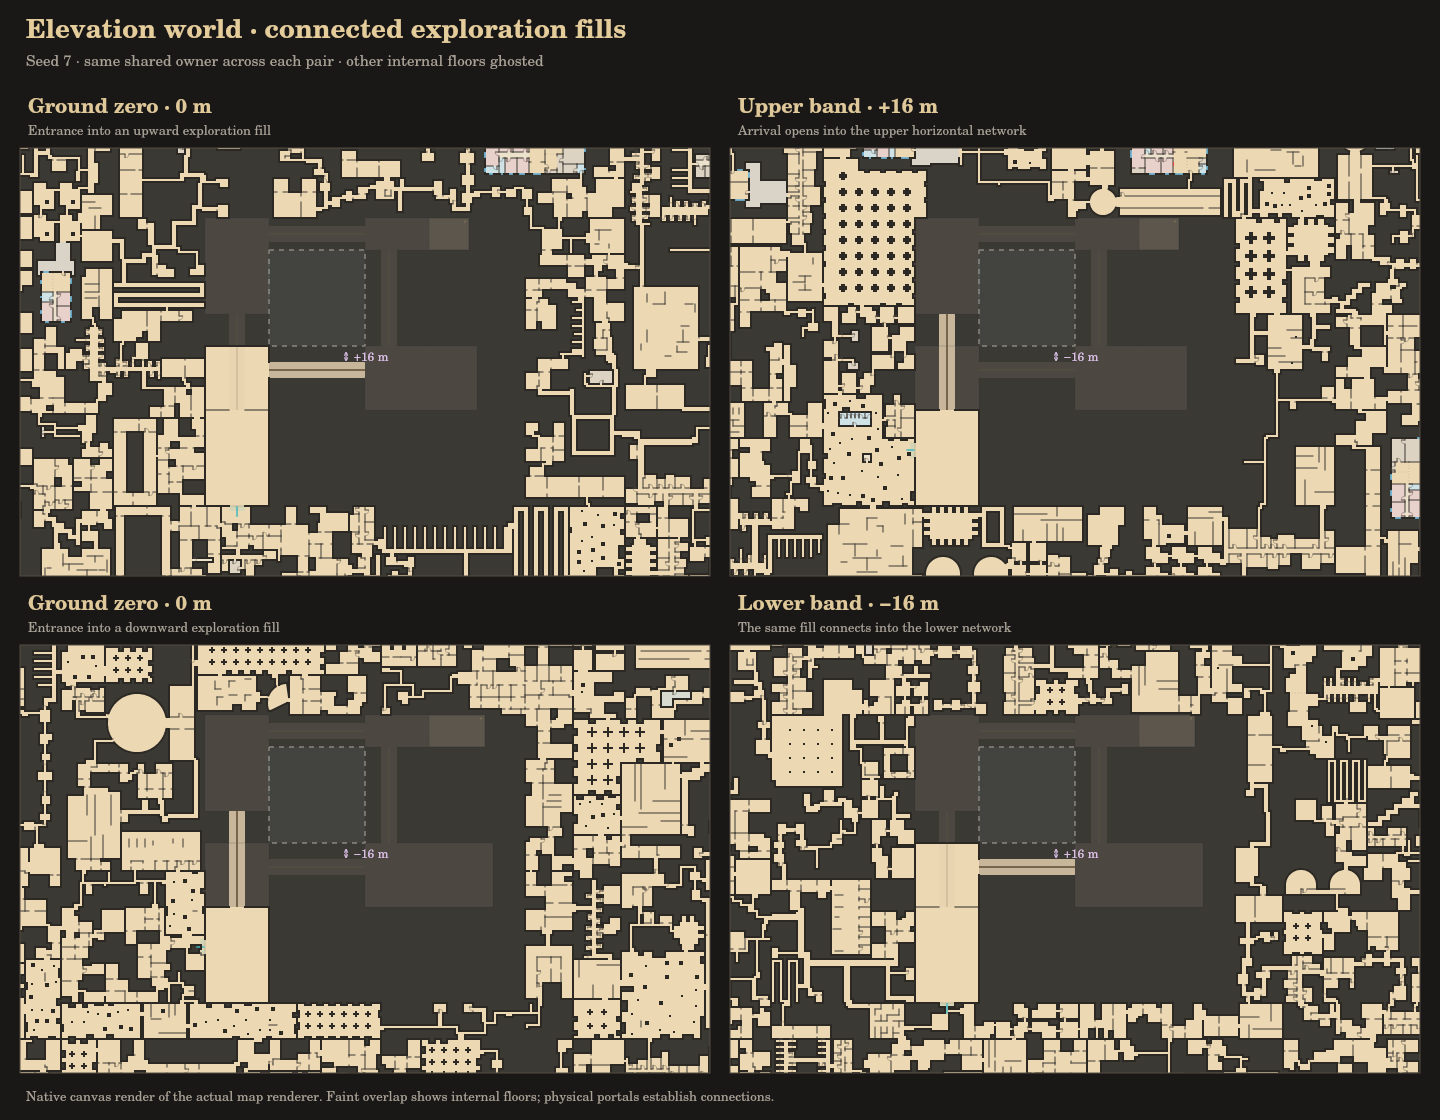
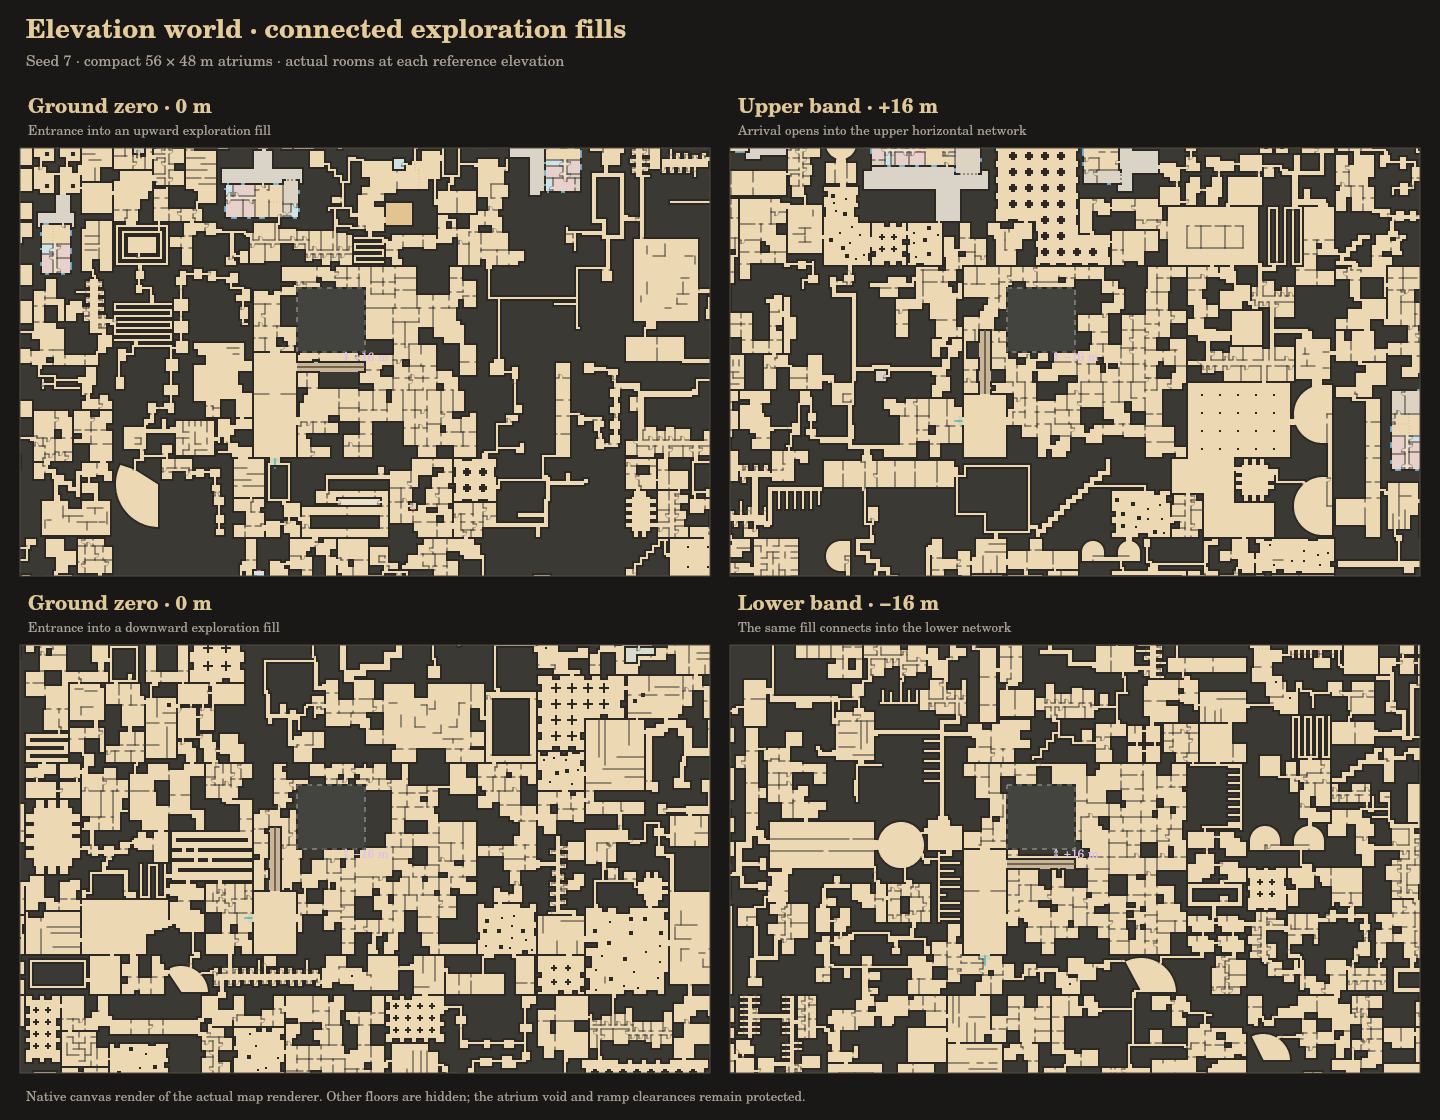
Compact and populate the terraced atrium world fill

diff --git a/src/tpl/elevation.js b/src/tpl/elevation.js
@@ -207,6 +207,52 @@
     return op;
   }
 
+  /** Populate the shared owner's spare space at a reference elevation. The
+   * existing filler pipeline supplies enclosed rooms and 1 m walkable joins;
+   * only volumes intersecting this floor's slab/headroom are excluded. */
+  function populateBand(b, band, seed, attachments) {
+    const z = b.bands.find((v) => v.id === band).elevation, ceiling = 2.4;
+    const mask = new TG.Raster(Math.round(b.site.w * 2), Math.round(b.site.h * 2), 1);
+    for (const v of b.volumes) if (v.z0 < z + ceiling - EPS && z - E.SLAB < v.z1 - EPS)
+      for (const q of v.rects) mask.fill(q.map((n) => Math.round(n * 2)), 0);
+    const rects = TG.rectsWhere(mask, (v) => v === 1).map((q) => q.map((n) => n / 2));
+    const bb = TG.bbox(rects), site = { rects }, prefix = 'infill:' + band + ':';
+    const connections = attachments.map((a, i) => {
+      const q = TG.bbox(b.rooms.find((r) => r.id === a.room).rects), horizontal = a.side === 'N' || a.side === 'S';
+      const line = a.side === 'N' ? q[1] : a.side === 'S' ? q[3] : a.side === 'W' ? q[0] : q[2];
+      return { id: String(i), side: TG.opposite(a.side), at: a.at - bb[horizontal ? 0 : 1],
+        line: line - bb[horizontal ? 1 : 0], width: a.width, kind: 'opening', route: true };
+    });
+    const f = BR.FILL.generate({ filler: 'warren', seed, site, connections });
+    if (f.error || f.meta.issues.length) throw new Error('terraced infill: ' + (f.error || f.meta.issues.join('; ')));
+    const id = (v) => v == null ? null : prefix + v;
+    const pt = (p) => { p[0] += bb[0]; p[1] += bb[1]; };
+    const rr = (q) => { q[0] += bb[0]; q[2] += bb[0]; q[1] += bb[1]; q[3] += bb[1]; };
+    for (const r of f.rooms) {
+      r.id = id(r.id); r.rects.forEach(rr); r.floorZ = z; r.ceiling = ceiling; r.ceilingZ = round(z + ceiling); r.band = band;
+      r.tags.push('vertical-infill'); b.rooms.push(r); b.graph.nodes.push(r.id);
+    }
+    for (const w of f.walls) {
+      w.id = id(w.id); w.rooms = w.rooms.map(id); pt(w.a); pt(w.b); w.floorZ = z; w.ceilingZ = round(z + ceiling); b.walls.push(w);
+    }
+    for (const o of f.openings) {
+      o.id = id(o.id); o.wall = id(o.wall); o.rooms = o.rooms.map(id); pt(o.a); pt(o.b); o.floorZ = z;
+      if (o.swingInto) o.swingInto = id(o.swingInto);
+      // Filler portals become internal doors to the authored core, never new
+      // world entrances. Their coincident core opening cuts both wall faces.
+      delete o.portal; b.openings.push(o);
+    }
+    b.columns = b.columns || [];
+    for (const c of f.columns) { c.id = id(c.id); c.room = id(c.room); rr(c.rect); c.floorZ = z; b.columns.push(c); }
+    for (const [a, c, kind, op] of f.graph.edges) if (a !== 'outside' && c !== 'outside') b.graph.edges.push([id(a), id(c), kind, id(op)]);
+    for (const p of f.portals) {
+      const a = attachments[Number(p.connection)], other = id(p.room);
+      const op = b.openings.find((o) => o.id === id(p.opening));
+      op.rooms = op.rooms.map((r) => r || a.room);
+      opening(b, a.room, a.side, a.at, a.width, other);
+    }
+  }
+
   /** A shared multi-band fill. Four ramps and intervening rooms wrap an atrium;
    * the last ramp passes above/below the ground gallery. A compact side pocket
    * in the upward example crosses the neighboring band's elevation WITHOUT a
@@ -272,9 +318,16 @@
     }
     const ramps = b.connectors.filter((c) => c.kind === 'ramp');
     b.route = [point([4, 36, 0]), point([4, 19, 0]), ...clone(ramps[0].path), point([23, 19, 2]), ...clone(ramps[1].path), point([23, 2, 4]), ...clone(ramps[2].path), point([4, 2, 6]), ...clone(ramps[3].path), point([4, 29, 8]), point([0, 29, 8])];
+    if (spec.infill) {
+      const east = (rid) => ({ room: rid, side: 'E', at: y(28), width: y(30) - y(28) });
+      populateBand(b, 'ground', BR.hash4(seed, 0xe1f1, 0, 0), [east('entry'), { room: 'gallery', side: 'N', at: x(3), width: x(5) - x(3) }]);
+      populateBand(b, dest, BR.hash4(seed, 0xe1f1, 1, 0), [east('arrival')]);
+      b.meta.program.push('connected reference-floor infill');
+    }
     if (rng.f() < 0.5) {
       const rp = (p) => { p[0] = round(W - p[0]); }, rr = (r) => { const a = r[0]; r[0] = round(W - r[2]); r[2] = round(W - a); };
       for (const r of b.rooms) r.rects.forEach(rr);
+      for (const c of b.columns || []) rr(c.rect);
       for (const w of b.walls.concat(b.openings)) { rp(w.a); rp(w.b); }
       for (const p of b.portals) if (p.side === 'W' || p.side === 'E') p.side = TG.opposite(p.side);
       for (const c of b.connectors) { c.path.forEach(rp); c.landings.forEach(rp); c.reservation.rects.forEach(rr); }

diff --git a/tests/atrium.test.js b/tests/atrium.test.js
@@ -1,0 +1,49 @@
+// World atriums must use their territory without losing physical walkability.
+const assert = require('node:assert/strict');
+const { BR } = require('./helpers');
+const { walk1m } = require('./walk');
+const E = BR.ELEV, cfg = BR.BAND_CFG;
+assert.equal(cfg.fillWidth, 56); assert.equal(cfg.fillDepth, 48);
+assert(cfg.fillWidth * cfg.fillDepth < 80 * 72 / 2, 'less than half the former claim');
+let minFloor = 1, minClaim = 1;
+for (let seed = 0; seed < 50; seed++) for (const direction of ['up', 'down']) {
+  const spec = { seed, direction, rise: cfg.spacing, site: { w: cfg.fillWidth, h: cfg.fillDepth }, infill: true };
+  const b = E.generate(spec), area = b.site.w * b.site.h;
+  assert.deepEqual(E.validate(b).errors, []);
+  assert.deepEqual(b, E.generate(spec), 'infill exports remain deterministic');
+  assert.equal(b.portals.length, 2, 'internal infill doors never become world portals');
+  assert.equal(b.connectors.filter((c) => c.kind === 'ramp').length, 4);
+  assert.equal(E.reachable(b, ['s:entry']).size, b.rooms.length);
+  assert.equal(E.reachable(b, ['s:arrival']).size, b.rooms.length);
+  for (const z of [0, direction === 'up' ? cfg.spacing : -cfg.spacing]) {
+    // Inspect real room/wall/opening geometry, independently of the graph.
+    const slice = (vs) => vs.filter((v) => v.floorZ === z).map((v) => ({ ...v, level: 0 }));
+    const floor = { site: b.site, rooms: slice(b.rooms), walls: slice(b.walls), openings: slice(b.openings),
+      portals: slice(b.portals), columns: slice(b.columns || []) };
+    const w = walk1m(floor);
+    assert.equal(w.unreached, 0, seed + ' ' + direction + ' ' + z + ': all floor reached by a 1 m walker');
+    assert.deepEqual(w.stuck, []); assert.equal(w.pieces, 1);
+    const coverage = floor.rooms.reduce((sum, r) => sum + r.area, 0) / area;
+    assert(coverage >= 0.55, 'each reference floor uses at least 55% of the claim');
+    minFloor = Math.min(minFloor, coverage);
+    assert(floor.rooms.some((r) => r.tags.includes('vertical-infill')));
+  }
+  // A room underneath another floor is legal; a room in the shaft/headroom
+  // is not. Both follow actual Z volumes, rather than blanket XY exclusion.
+  const infill = b.surfaces.filter((s) => s.room.startsWith('infill:'));
+  assert(infill.some((s) => b.surfaces.some((q) => !q.room.startsWith('infill:') && q.floorZ !== s.floorZ &&
+    s.rects.some((r) => q.rects.some((v) => BR.TG.roverlap(r, v))))));
+  for (const s of infill) {
+    const v = b.volumes.find((v) => v.id === 'volume:' + s.id);
+    for (const c of b.connectors) assert(!E.volumeOverlap(v, c.reservation));
+    for (const q of b.voids) assert(!E.volumeOverlap(v, q));
+    assert.equal(s.owner, b.fillId, 'all infill belongs to the same territory');
+  }
+  const used = new BR.TG.Raster(b.site.w * 2, b.site.h * 2, 0);
+  for (const v of b.volumes) for (const q of v.rects) used.fill(q.map((n) => n * 2), 1);
+  const coverage = used.count(1) / used.a.length;
+  assert(coverage >= 0.9, 'rooms, ramps and atrium account for at least 90% of claimed XY');
+  minClaim = Math.min(minClaim, coverage);
+}
+console.log('ok   100 compact populated atriums, both directions; physical walkability, clearances and shared ownership');
+console.log('ok   minimum reference floor coverage ' + (minFloor * 100).toFixed(1) + '%, combined claim use ' + (minClaim * 100).toFixed(1) + '%');

diff --git a/tests/band-world.test.js b/tests/band-world.test.js
@@ -70,7 +70,8 @@ for (const seed of [7, 99, 31337]) {
     assert.equal(components(g.nodes, g.edges).sizes.length, 1);
     const entrance = p.id + '/s:entry', arrival = p.id + '/s:arrival';
     assert(walk(g, entrance).has(arrival)); assert(walk(g, arrival).has(entrance));
-    assert.equal([...g.nodes].filter((v) => v.startsWith(p.id + '/')).length, 9, 'shared journey surfaces are emitted once');
+    assert.equal([...g.nodes].filter((v) => v.startsWith(p.id + '/')).length, w.transition(p).surfaces.length, 'shared journey surfaces are emitted once');
+    assert(w.transition(p).rooms.some((r) => r.tags.includes('vertical-infill')), 'world selects the populated atrium');
     assert(g.dangling.every((id) => /\|[vh]/.test(id)), 'only cell borders leave this region');
     const one = w.graph(p.i, p.j, p.i, p.j, [n]);
     assert(one.verticalFrontier.some((v) => v.owner === p.id && v.band === 'band:' + (n + 1)));
@@ -144,7 +145,7 @@ for (const fault of ['height', 'width', 'side', 'clearance', 'missing']) {
 }
 assert.throws(() => new BR.BandWorld(7, { band: 0.5 }), /integer/);
 assert.throws(() => new BR.BandWorld(7).exportRegion(0, 0, 8, 8, [0]), /64/);
-same(E.validate(E.generate({ seed: 7, direction: 'down', rise: 16, site: { w: 80, h: 72 } })).errors, []);
+same(E.validate(E.generate({ seed: 7, direction: 'down', rise: 16, site: { w: 56, h: 48 }, infill: true })).errors, []);
 assert.throws(() => E.generate({ rise: 16 }), /too steep/);
 console.log('ok   invalid portal matching, region sizes and slopes rejected; both-direction scaled fills remain physical');
 console.log('All band-world checks passed.');

diff --git a/src/band-world.js b/src/band-world.js
@@ -4,7 +4,7 @@
 (function (root) {
   'use strict';
   const BR = root.BR, E = BR.ELEV, C = BR.WORLD_CFG.cell;
-  const CFG = { spacing: 16, regionCells: 4, fillWidth: 80, fillDepth: 72, ceilingLimit: 15.5,
+  const CFG = { spacing: 16, regionCells: 4, fillWidth: 56, fillDepth: 48, ceilingLimit: 15.5,
     limits: { bands: 4, transitions: 64, claims: 256 } };
   const clone = (x) => JSON.parse(JSON.stringify(x));
   const bandId = (n) => 'band:' + n;
@@ -97,7 +97,7 @@
     }
     transition(p) {
       return BR.World.lru(this.transitions, p.id, this.limits.transitions, () => {
-        const b = E.generate({ seed: p.seed, rise: CFG.spacing, site: { w: CFG.fillWidth, h: CFG.fillDepth }, fillId: p.id });
+        const b = E.generate({ seed: p.seed, rise: CFG.spacing, site: { w: CFG.fillWidth, h: CFG.fillDepth }, fillId: p.id, infill: true });
         placeBlueprint(b, p.lower * CFG.spacing, p.lower, p.upper);
         const result = E.validate(b);
         if (result.errors.length) throw new Error(p.id + ': ' + result.errors.join('; '));

diff --git a/tests/run-all.js b/tests/run-all.js
@@ -13,6 +13,7 @@ run('park.test.js', [], 'park (a hall tiled by zones)');
 run('fillers.test.js', [], 'fillers');
 run('architectural.test.js', [], 'architectural curves (constant radii and radial layouts)');
 run('elevation.test.js', [], 'elevation (surfaces, vertical fills, capabilities and reservations)');
+run('atrium.test.js', [], 'compact world atriums (territory use and physical infill)');
 run('elevation-ui.test.js', [], 'elevation lab controller');
 run('band-world.test.js', [], 'elevation world (ownership, matching, topology and eviction)');
 run('band-render.test.js', [], 'elevation map tiles and floor slices');

diff --git a/docs/elevation-world.md b/docs/elevation-world.md
@@ -40,7 +40,7 @@ ground zero retains the original seed. The flat generator remains available.
 | --- | --- | --- |
 | Reference spacing | 16 m | Accommodates existing tall street/neighborhood halls and slabs |
 | Journey region | 4 × 4 cells, 512 × 512 m | One journey per region per adjacent pair |
-| Shared fill territory | 80 × 72 m | Four 4 m rises with ramps no steeper than 1:4 |
+| Shared fill territory | 56 × 48 m | Four 4 m rises with ramps no steeper than 1:4 |
 | Ordinary envelope | Reference −0.25 m to +15.5 m | Conservative room/slab reservation |
 | Shared envelope | Lower reference −0.25 m to upper reference +3 m | Protects rooms, ramps, stacked pocket and atrium |
 
@@ -68,6 +68,26 @@ portal is on a different XY edge and Z, reached through the rooms and ramps.
 At +14 m the stacked pocket still belongs to the lower home band; its ceiling
 occupies +16 m space, but it has no upper network portal. Only the authored
 arrival at +16 m supplies that connection. Occupancy never implies connectivity.
+
+### Compact populated atrium
+
+The world variant now claims **2,688 m² instead of 5,760 m²**, a 53.3% reduction.
+Both reference floors contain connected enclosed room networks around the
+authored vertical journey. These use the existing `warren` filler pipeline,
+with 2.4 m clear ceilings and real internal openings into the entrance/gallery
+and arrival. The four ramps, intermediate rooms, stacked pocket and atrium
+remain part of the same shared owner, with exactly two external band portals.
+
+Infill excludes the existing room/slab, ramp headroom and void volumes that
+intersect its floor height. It can fit underneath an elevated gallery when
+there is enough clearance. It cannot occupy the atrium or a ramp's reserved
+space. Neighboring territories still stay outside the full shared envelope;
+this change fills out the template itself. Some solid mass between rooms is
+intentional, as with ordinary enclosed fills.
+
+The preview above hides other floors to show the usable reference-floor plans.
+The standalone M1 lab fixture retains its minimal authored geometry; the world
+requests the populated form through `ELEV.generate({ ..., infill: true })`.
 
 ## Ownership, reservations and caches
 
@@ -143,10 +163,15 @@ fills exclude accidental seam cuts.
 
 - 6,000 journey placements across 100 seeds: deterministic ownership, negative
   regions, adjacent-pair separation and both bands' border clearance.
-- 60 complete journeys across three seeds: 34,724 reachable rooms, destination
+- 100 compact populated atriums in both directions: real 1 m walker access
+  through the rooms and doors on both reference floors, exact headroom/void
+  exclusion, deterministic exports, and a single shared owner. At least 55%
+  of each reference-floor claim is walkable room area; rooms, ramps and the
+  atrium together account for at least 90% of claimed XY across all heights.
+- 60 complete journeys across three seeds: all rooms reachable, destination
   first generation, exact tiling, shared voids and occupancy without a portal.
-- Full three-band regions for seeds 7 and 99: 20,061 and 19,125 reachable rooms,
-  respectively, with over 4,800 horizontal connections each.
+- Full three-band regions for seeds 7 and 99: all rooms reachable, with over
+  1,000 horizontal connections each.
 - Identical canonical exports after reversed generation, remote exploration,
   cell/build eviction and whole-band eviction with one-entry caches. All
   exported physical volumes fit their planned 3D envelopes.
